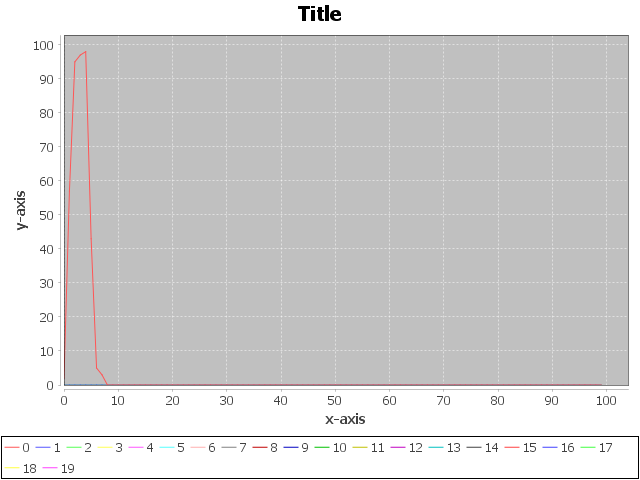
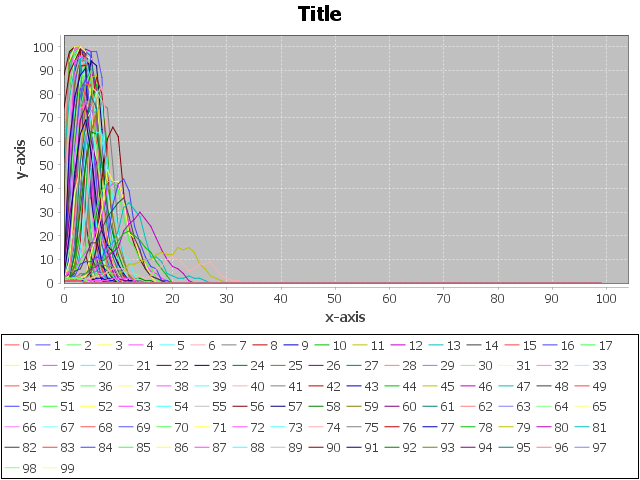
Fixed simulation
Graph now works correctly

Changed region(s): [[0.0, 0.0625, 1.0, 0.9375]]

diff --git a/src/edu/adg/adgsim/Simulator.java b/src/edu/adg/adgsim/Simulator.java
@@ -46,13 +46,22 @@ public class Simulator implements Runnable {
         }
 
         //Step 2. Simulate with this List of people.
-        for (int i = 80; i < 100; i++) {
+        for (int i = 0; i < 100; i++) {
             List<Day> history = simulate(i);
             histories.add(history);
 
             //Reset people
             for (Person p : people) {
                 p.setState(susceptible);
+            }
+
+            //Infect the people that should be originally infected.
+            for (int j = 0; j < numberOfPeopleOriginallyInfected; j++) {
+                Person person = people.get(Utils.randInt(0, people.size() - 1));
+                while (person.getState() == infected) {
+                    person = people.get(Utils.randInt(0, people.size() - 1));
+                }
+                person.setState(infected);
             }
         }
 

diff --git a/src/Utils/Utils.java b/src/Utils/Utils.java
@@ -201,7 +201,7 @@ public class Utils {
 
         int width = 640;
         int height = 480;
-        File lineChart = new File("C:\\Users\\Irochka\\workspace\\and\\ADGSim\\" + filename + ".png");
+        File lineChart = new File("C:\\Users\\Irochka\\Documents\\GitHub\\ADGSim\\" + filename + ".png");
 
         System.out.println("3");
 
